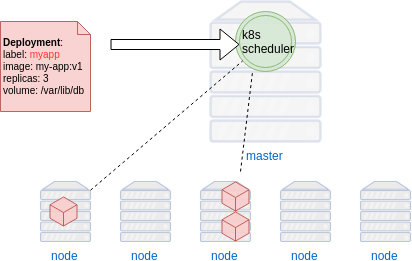
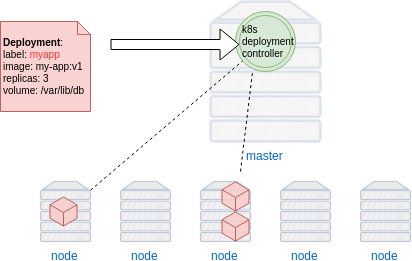
Add imgs for pod and service traffic routing

Changed region(s): [[0.5825, 0.092, 0.7282, 0.2146]]

diff --git a/slides/kubernetes.md b/slides/kubernetes.md
@@ -10,7 +10,7 @@
 * [Source](https://news.ycombinator.com/item?id=9653797)
 
 
-### Kubernetes Host Types
+#### Kubernetes Host Types
 * master
    - performs _scheduling_
    - monitoring/healthchecks
@@ -18,7 +18,7 @@
    - runs containers
 
 
-### Kubernetes Concepts
+#### Kubernetes Concepts
 * Deployment
 * Pod
 * Services
@@ -26,24 +26,31 @@
 * Namespaces
 
 
-### Running applications in Kubernetes <!-- .slide "class="image-slide" -->
-![k8s deployment](img/k8s-deployment.png "Deployment")
+#### Running applications in Kubernetes
+* A declarative configuration called a <!-- .element: class="fragment" data-fragment-index="0" -->_Deployment_
+* Tell Kubernetes the <!-- .element: class="fragment" data-fragment-index="1" -->desired state of an application 
+   + which image(s) to use for an application ![k8s deployment](img/k8s-deployment.png "Deployment") <!-- .element: class="img-right" style="width:50%;" -->
+   + number _replicas_ to run
+   + volume mounts
+* The Kubernetes <!-- .element: class="fragment" data-fragment-index="2" -->_deployment controller_ maintains that state in the cluster
 
 
-### Deployment
-* A declarative configuration 
-* Instructions for Kubernetes how to run an application:
-   + which image(s) to use for an application
-   + replicas - number of instances
-   + other (mount volumes, etc.)
-* The Kubernetes _deployment controller_ maintains that state in the cluster
+
+#### Creating a Deployment
+<code style="font-size:14pt;">kubectl run </code><code style="color:red;font-size:14pt;">name </code><code style="color:red;font-size:14pt;">--image=IMAGE:TAG</code><code style="color:green;font-size:14pt;"> OPTIONS</code>
+* Example
+   ```
+   kubectl run nginx --image=nginx --replicas=3
+   ```
+* Simplest way to create a deployment in Kubernetes
+   + `kubectl run` command
+* CLI options ![pod-anatomy](img/k8s-deployment-replicas.png "Deployment Replicas") <!-- .element: class="img-right" -->
+   + _name_ for the deployment
+   + an image
+   + other info (i.e. replicas, ports, volumes)
 
 
-### Maintaining Homeostasis <!-- .slide: class="image-slide" -->
-![k8s homeostasis](img/k8s-deployment-homeostasis.png "K8s homeostasis") <!-- .element: class="fragment" data-fragment-index="0" -->
-
-
-### Managing Deployments
+#### Managing Deployments
 * A _Deployment_ can be modified at any time
   + _scaling_ 
      - changing number of replicas
@@ -52,24 +59,53 @@
 * Kubernetes replication controller adapts to new desired state
 
 
-### Pods
-* From _Deployment_ Kubernetes creates _Pods_
-* Atomic _run unit_ of K8s
-* An abstraction representing group of ≥ 1 containers
+#### Maintaining State of a Deployment <!-- .slide: class="image-slide" -->
+![k8s homeostasis](img/k8s-deployment-homeostasis.png "K8s homeostasis") <!-- .element: class="fragment" data-fragment-index="0" -->
+
+
+#### Pods
+* From <!-- .element: class="fragment" data-fragment-index="1" -->_Deployment_ Kubernetes creates _Pods_
+* Atomic <!-- .element: class="fragment" data-fragment-index="2" -->_run unit_ of K8s (not containers)
+* An abstraction representing group <!-- .element: class="fragment" data-fragment-index="3" -->of ≥ 1 containers
    - images![pod and services](img/k8s-pods.png "Pods") <!-- .element: class="img-right" style="width:50%;" -->
    - network ports
    - volumes
 
 
-### Pods
+
+#### Pods
 * Containers in a Pod share common resources   
-   - mounted volume
+   - Mounted volumes
    - Network IP address ![pod-anatomy](img/k8s-pod-anatomy.png "Pod upclose") <!-- .element: class="img-right" -->
-   - scheduled together
+   - Always co-located and co-scheduled
 * Within Pod communicate via _localhost_
+* Deployments defined with a _Deployment Spec_
 
 
-### Defining a Deployment
+
+#### Deployment Spec
+ ![pod-anatomy](img/k8s-deployment-replicas.png "Deployment Replicas")
+<!-- .element: style="width:40%;float:right;"  -->
+
+<pre  style="width:40%;float:left;font-size:10pt;" ><code data-trim data-noescape>
+apiVersion: extensions/v1beta1
+kind: Deployment
+metadata:
+  name: webapp
+spec:
+  <mark>replicas: 3</mark>
+  template:
+    metadata:
+      labels:
+        app: webapp
+    spec:
+      .
+      .
+        </code></pre>
+
+
+
+#### Deployment Spec
  ![pod-anatomy](img/k8s-pod-anatomy.png "Pod upclose")
 <!-- .element: style="width:40%;float:right;"  -->
 
@@ -79,11 +115,11 @@ kind: Deployment
 metadata:
   name: webapp
 spec:
-  replicas: 1
+  replicas: 3
   template:
-metadata:
-  labels:
-    app: webapp
+    metadata:
+      labels:
+        app: webapp
     spec:
       containers:
         <span class="fragment" data-fragment-index="0">- <mark>image: my-app:v1</mark>
@@ -102,41 +138,28 @@ metadata:
         </code></pre>
 
 
+#### Services
+* Each Pod in k8s has own IP (even on same node) <!-- .element: class="fragment" data-fragment-index="0" -->
+* Pod IPs never exposed outside cluster <!-- .element: class="fragment" data-fragment-index="1" -->
+* Need to reconcile changing Pod IPs <!-- .element: class="fragment" data-fragment-index="2" -->
+* Service defines logical set of pods and policy to access them <!-- .element: class="fragment" data-fragment-index="3" -->![pods service](img/k8s-service-pods1.png "Basic Service") <!-- .element: class="img-right" -->
+* Ensure Pods for a specific Deployment receive network traffic <!-- .element: class="fragment" data-fragment-index="4" -->
 
 
+#### Service types
+* _ClusterIP_
+   - Exposes the Service on an internal IP in the cluster
+* _NodePort_
+   - Expose port on each node in cluster
+* _LoadBalancer_
+   - Creates LB on cloud (if supported)
+* _ExternalName_ 
+   - Expose service using name by returning CNAME
 
-### Defining a Deployment
-* Specification deployment file
-* Attributes define <!-- .element: class="fragment" data-fragment-index="0" -->
-   + How many instances to run at start<!-- .element: class="fragment" data-fragment-index="1" -->
-   + Label selectors <!-- .element: class="fragment" data-fragment-index="1" -->
-   + Images/containers in pod <!-- .element: class="fragment" data-fragment-index="2" -->
-   + Volumes mounted in pod <!-- .element: class="fragment" data-fragment-index="3" -->
 
-<!-- .element: style="width:50%;float:left;"  -->
-
-<pre  style="width:40%;float:left;font-size:10pt;" ><code data-trim data-noescape>
-<span class="fragment" data-fragment-index="0">apiVersion: extensions/v1beta1
-kind: Deployment
-metadata:
-  name: redis</span>
-<span class="fragment" data-fragment-index="1">spec:
-  <span class="fragment" data-fragment-index="1"><mark>replicas: 1</mark></span>
-  template:
-    metadata:
-      labels:
-        <mark>app: redis</mark></span>
-    <span class="fragment" data-fragment-index="2">spec:
-      containers:
-      - <mark>image: redis:alpine</mark>
-        name: redis
-        volumeMounts:
-        - mountPath: /data
-          name: redis-data</span>
-      <span class="fragment" data-fragment-index="3">volumes:
-      - name: redis-data
-        emptyDir: {}</span> 
-        </code></pre>
+#### Matching Services and Pods
+* Services route traffic to a set of Pods
+* Route to Pods using labels and selectors ![service-label-selector](img/k8s-service-label-selectors.png "Labels and Selectors") <!-- .element: class="img-right" -->
 
 
 
